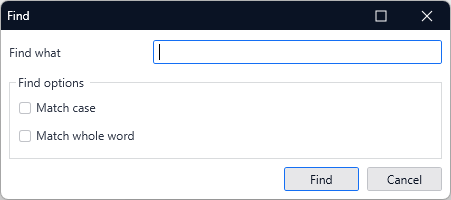
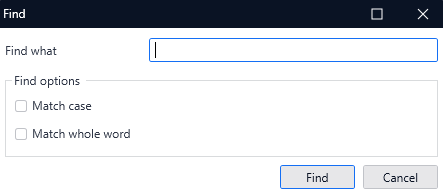
Update images

Changed region(s): [[0.0, 0.0, 1.0, 1.0], [0.0, 0.2154, 0.1467, 0.3077]]

diff --git a/content/en/docs/refguide10/modeling/menus/edit-menu/find-and-find-advanced.md b/content/en/docs/refguide10/modeling/menus/edit-menu/find-and-find-advanced.md
@@ -9,7 +9,7 @@ weight: 10
 
 You can search for changes or usages of different elements, documents, XPaths, changes to various elements, in your app.  You do it via **Find**, **Find Advanced**, and **Find Usages** options under the **Edit** menu. 
 
-{{< figure src="/attachments/refguide10/modeling/menus/edit-menu/find-and-find-advanced/find-options.png" alt="Find Options" class="no-border" >}}
+{{< figure src="/attachments/refguide10/modeling/menus/edit-menu/find-and-find-advanced/find-options.png" alt="Find Options" >}}
 
 ## Find Option
 
@@ -18,7 +18,7 @@ You can find various elements in your app via the **Find** option. For example, 
 1. Click **Edit** > **Find** in the top-bar or press <kbd>Ctrl</kbd> + <kbd>F</kbd>.
 2. In the **Find** dialog box, leave **Match case** and **Match the whole word** unselected. This way you will search for all instances of the word "Employee" including such instances as "employee", Employees", or "Department_Employee":
 
-    {{< figure src="/attachments/refguide10/modeling/menus/edit-menu/find-and-find-advanced/find.png" alt="Find" class="no-border" >}}
+    {{< figure src="/attachments/refguide10/modeling/menus/edit-menu/find-and-find-advanced/find.png" alt="Find" >}}
 
 You can see search results in the **Find Results** pane:
 

diff --git a/content/en/docs/refguide9/modeling/menus/edit-menu/find-and-find-advanced.md b/content/en/docs/refguide9/modeling/menus/edit-menu/find-and-find-advanced.md
@@ -9,7 +9,7 @@ weight: 10
 
 You can search for changes or usages of different elements, documents, XPaths, changes to various elements, in your app.  You do it via **Find**, **Find Advanced**, and **Find Usages** options under the **Edit** menu. 
 
-{{< figure src="/attachments/refguide9/modeling/menus/edit-menu/find-and-find-advanced/find-options.png" alt="Find Options" class="no-border" >}}
+{{< figure src="/attachments/refguide9/modeling/menus/edit-menu/find-and-find-advanced/find-options.png" alt="Find Options"  >}}
 
 ## Find Option
 
@@ -18,7 +18,7 @@ You can find various elements in your app via the **Find** option. For example, 
 1. Click **Edit** > **Find** in the top-bar or press <kbd>Ctrl</kbd> + <kbd>F</kbd>.
 2. In the **Find** dialog box, leave **Match case** and **Match the whole word** unselected. This way you will search for all instances of the word "Employee" including such instances as "employee", Employees", or "Department_Employee":
 
-    {{< figure src="/attachments/refguide9/modeling/menus/edit-menu/find-and-find-advanced/find.png" alt="Find" class="no-border" >}}
+    {{< figure src="/attachments/refguide9/modeling/menus/edit-menu/find-and-find-advanced/find.png" alt="Find" >}}
 
 You can see search results in the **Find Results** pane:
 

diff --git a/content/en/docs/refguide/modeling/menus/edit-menu/find-and-find-advanced.md b/content/en/docs/refguide/modeling/menus/edit-menu/find-and-find-advanced.md
@@ -9,7 +9,7 @@ weight: 10
 
 You can search for changes or usages of different elements, documents, XPaths, changes to various elements, in your app.  You do it via **Find**, **Find Advanced**, and **Find Usages** options under the **Edit** menu. 
 
-{{< figure src="/attachments/refguide/modeling/menus/edit-menu/find-and-find-advanced/find-options.png" alt="Find Options" class="no-border" >}}
+{{< figure src="/attachments/refguide/modeling/menus/edit-menu/find-and-find-advanced/find-options.png" alt="Find Options" >}}
 
 ## Find Option
 
@@ -18,7 +18,7 @@ You can find various elements in your app via the **Find** option. For example, 
 1. Click **Edit** > **Find** in the top-bar or press <kbd>Ctrl</kbd> + <kbd>F</kbd>.
 2. In the **Find** dialog box, leave **Match case** and **Match the whole word** unselected. This way you will search for all instances of the word "Employee" including such instances as "employee", Employees", or "Department_Employee":
 
-    {{< figure src="/attachments/refguide/modeling/menus/edit-menu/find-and-find-advanced/find.png" alt="Find" class="no-border" >}}
+    {{< figure src="/attachments/refguide/modeling/menus/edit-menu/find-and-find-advanced/find.png" alt="Find" >}}
 
 You can see search results in the **Find Results** pane:
 
